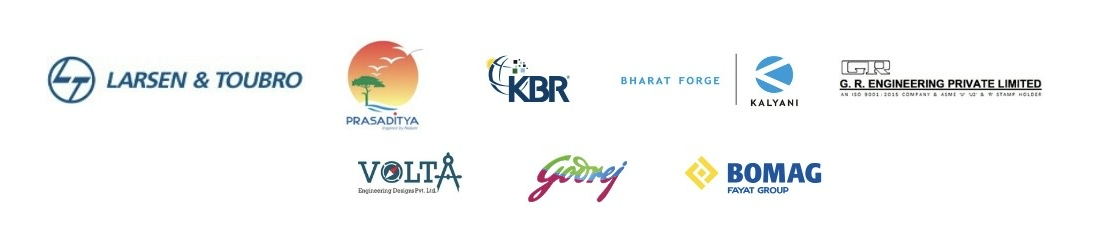
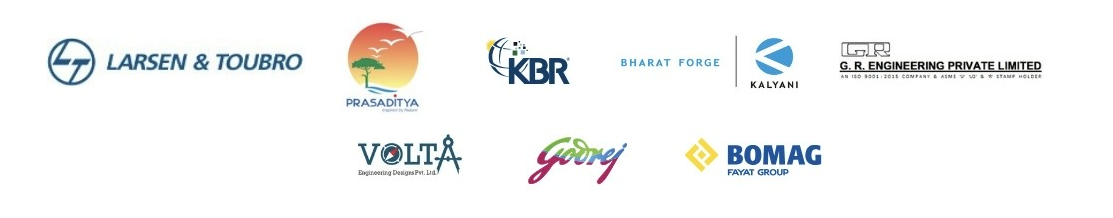
p2

diff --git a/style.css b/style.css
@@ -147,7 +147,7 @@ html {
 .clientbg{
     background-image: url("clients.png");
     background-size:cover;
-    height: 300px;
+    height: 270px;
     width:100%;
     margin-top: 10px;
 }
